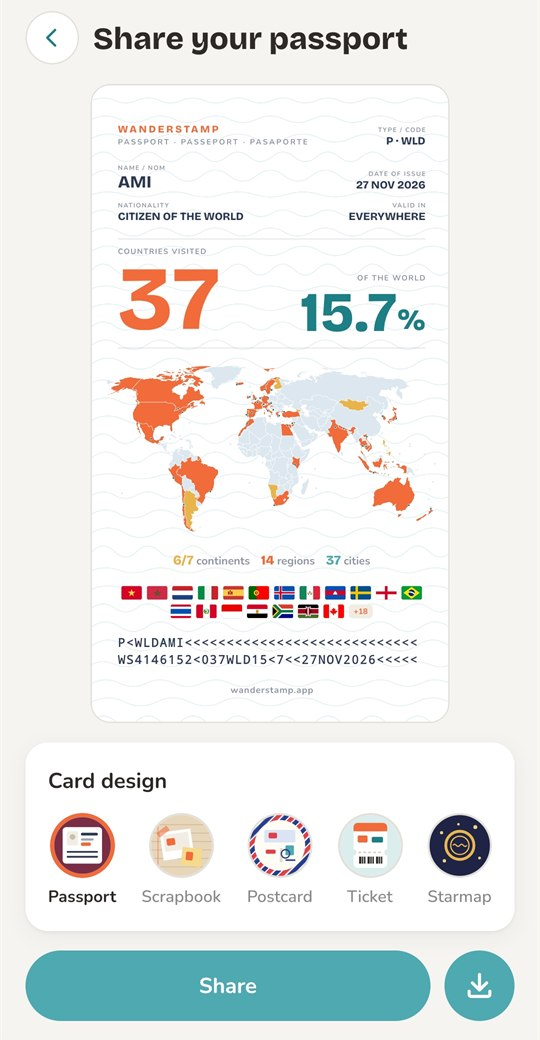
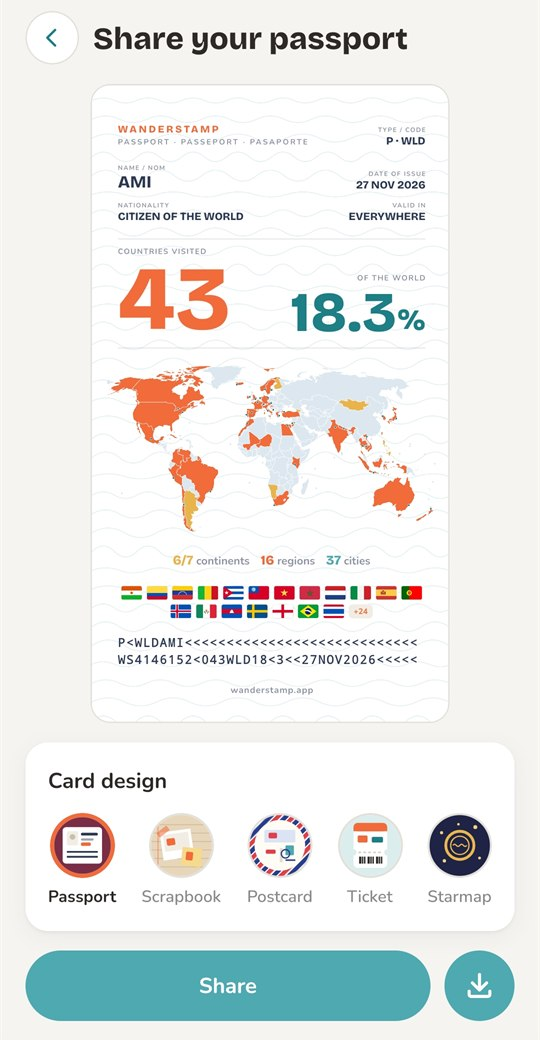
New share card screenshot; share animation dims the status bar but not the card

diff --git a/style.css b/style.css
@@ -175,7 +175,8 @@ a:hover { color: var(--sunset-text); }
   transform: translateX(-50%); border-radius: 50%; background: #0B0A0A; z-index: 1;
 }
 .phone .screen {
-  width: 100%; overflow: hidden; border-radius: 11.8% / 5.8%;
+  /* positioned, so it also clips overlays drawn outside a screenshot (the share phone's dimming) */
+  position: relative; width: 100%; overflow: hidden; border-radius: 11.8% / 5.8%;
   background: var(--paper);
 }
 .phone .screen::before {
@@ -273,11 +274,18 @@ a:hover { color: var(--sunset-text); }
    4.6% / 91.3% of the screenshot, 75% x 6.8% of it), the screen dims and a share sheet slides up,
    the app icons pop in one by one, Instagram is tapped, then it all slides away and starts over.
    It runs only while the panel is on screen (.play, set by the script in index.html). */
-.share-shot { position: relative; overflow: hidden; container-type: inline-size; }
+/* Not clipped here, so the dimming also covers the phone's status bar above the screenshot; the
+   phone's screen clips everything instead. */
+.share-shot { position: relative; container-type: inline-size; }
 .share-shot > img { display: block; }
 .sh-layer > * { position: absolute; pointer-events: none; }
 .sh-press { left: 4.6%; top: 91.3%; width: 75%; height: 6.8%; border-radius: 999px; background: rgba(20, 60, 64, 0.22); opacity: 0; }
-.sh-dim { inset: 0; background: rgba(46, 43, 41, 0.38); opacity: 0; }
+/* The dimming is a see-through window over the share card (16.67% / 8.08% of the screenshot,
+   66.67% x 61.44% of it) with a huge shadow around it, so everything but the card greys out. */
+.sh-dim {
+  left: 16.67%; top: 8.08%; width: 66.67%; height: 61.44%; border-radius: 3.3cqw;
+  box-shadow: 0 0 0 400cqw rgba(46, 43, 41, 0.38); opacity: 0;
+}
 .sh-sheet {
   left: 0; right: 0; bottom: 0; padding: 5cqw 5cqw 8cqw; background: #fff; border-radius: 6cqw 6cqw 0 0;
   box-shadow: 0 -2cqw 6cqw rgba(46, 43, 41, 0.18); transform: translateY(105%);

diff --git a/index.html b/index.html
@@ -15,7 +15,7 @@
   <link rel="preconnect" href="https://fonts.googleapis.com">
   <link rel="preconnect" href="https://fonts.gstatic.com" crossorigin>
   <link rel="stylesheet" href="https://fonts.googleapis.com/css2?family=Baloo+2:wght@800&family=Bricolage+Grotesque:opsz,wght@12..96,600;12..96,800&family=Nunito:wght@400;600;700;800&display=swap">
-  <link rel="stylesheet" href="style.css?v=2026-11-27.3">
+  <link rel="stylesheet" href="style.css?v=2026-11-27.4">
   <script>document.documentElement.classList.add('js');</script>
 </head>
 <body>

diff --git a/delete-account.html b/delete-account.html
@@ -10,7 +10,7 @@
   <link rel="preconnect" href="https://fonts.googleapis.com">
   <link rel="preconnect" href="https://fonts.gstatic.com" crossorigin>
   <link rel="stylesheet" href="https://fonts.googleapis.com/css2?family=Baloo+2:wght@800&family=Bricolage+Grotesque:opsz,wght@12..96,600;12..96,800&family=Nunito:wght@400;600;700;800&display=swap">
-  <link rel="stylesheet" href="style.css?v=2026-11-27.3">
+  <link rel="stylesheet" href="style.css?v=2026-11-27.4">
 </head>
 <body>
   <a class="skip" href="#main">Skip to content</a>

diff --git a/privacy.html b/privacy.html
@@ -10,7 +10,7 @@
   <link rel="preconnect" href="https://fonts.googleapis.com">
   <link rel="preconnect" href="https://fonts.gstatic.com" crossorigin>
   <link rel="stylesheet" href="https://fonts.googleapis.com/css2?family=Baloo+2:wght@800&family=Bricolage+Grotesque:opsz,wght@12..96,600;12..96,800&family=Nunito:wght@400;600;700;800&display=swap">
-  <link rel="stylesheet" href="style.css?v=2026-11-27.3">
+  <link rel="stylesheet" href="style.css?v=2026-11-27.4">
 </head>
 <body>
   <a class="skip" href="#main">Skip to content</a>

diff --git a/terms.html b/terms.html
@@ -10,7 +10,7 @@
   <link rel="preconnect" href="https://fonts.googleapis.com">
   <link rel="preconnect" href="https://fonts.gstatic.com" crossorigin>
   <link rel="stylesheet" href="https://fonts.googleapis.com/css2?family=Baloo+2:wght@800&family=Bricolage+Grotesque:opsz,wght@12..96,600;12..96,800&family=Nunito:wght@400;600;700;800&display=swap">
-  <link rel="stylesheet" href="style.css?v=2026-11-27.3">
+  <link rel="stylesheet" href="style.css?v=2026-11-27.4">
 </head>
 <body>
   <a class="skip" href="#main">Skip to content</a>
